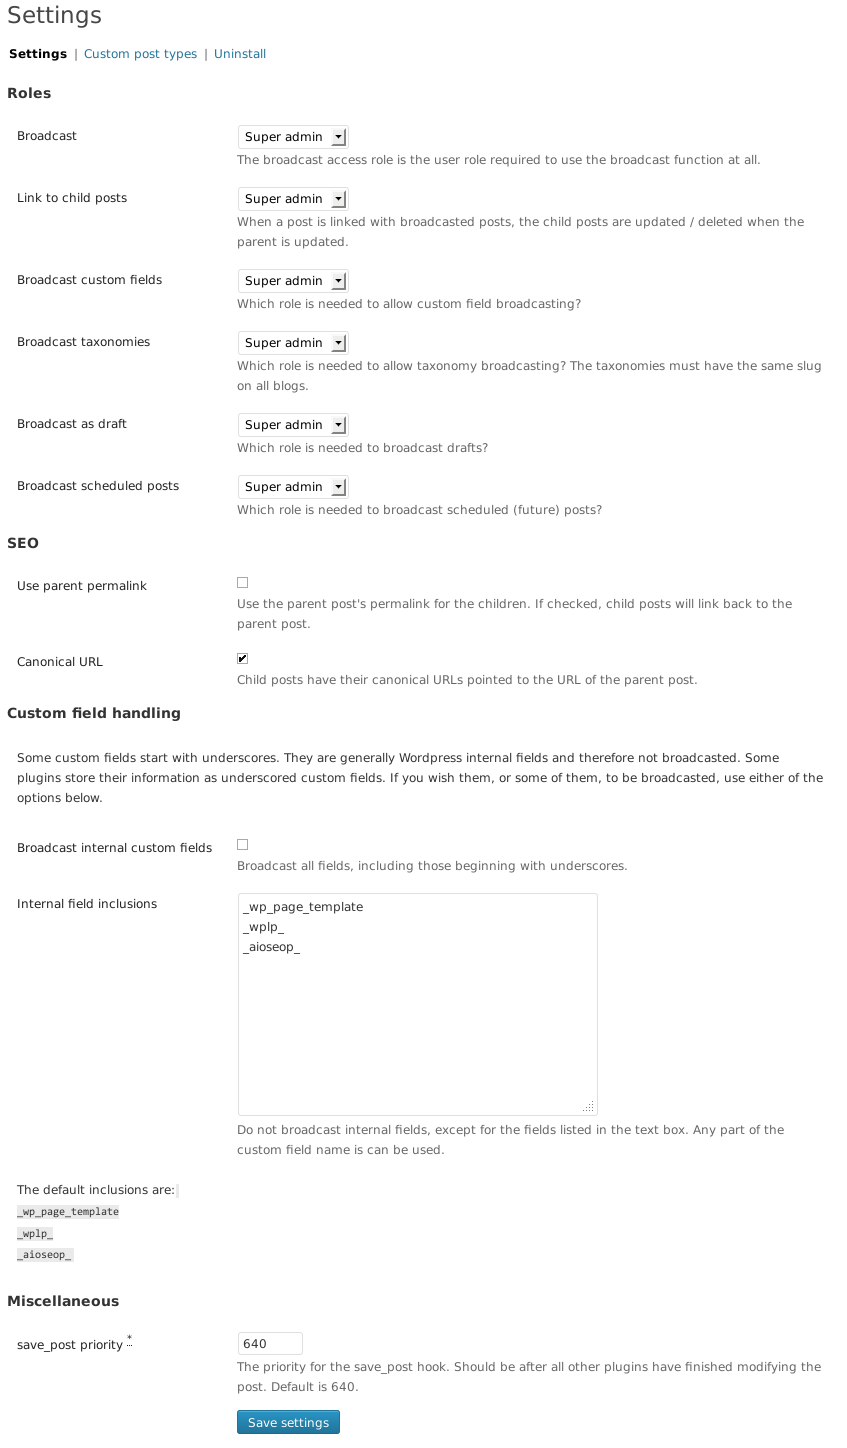
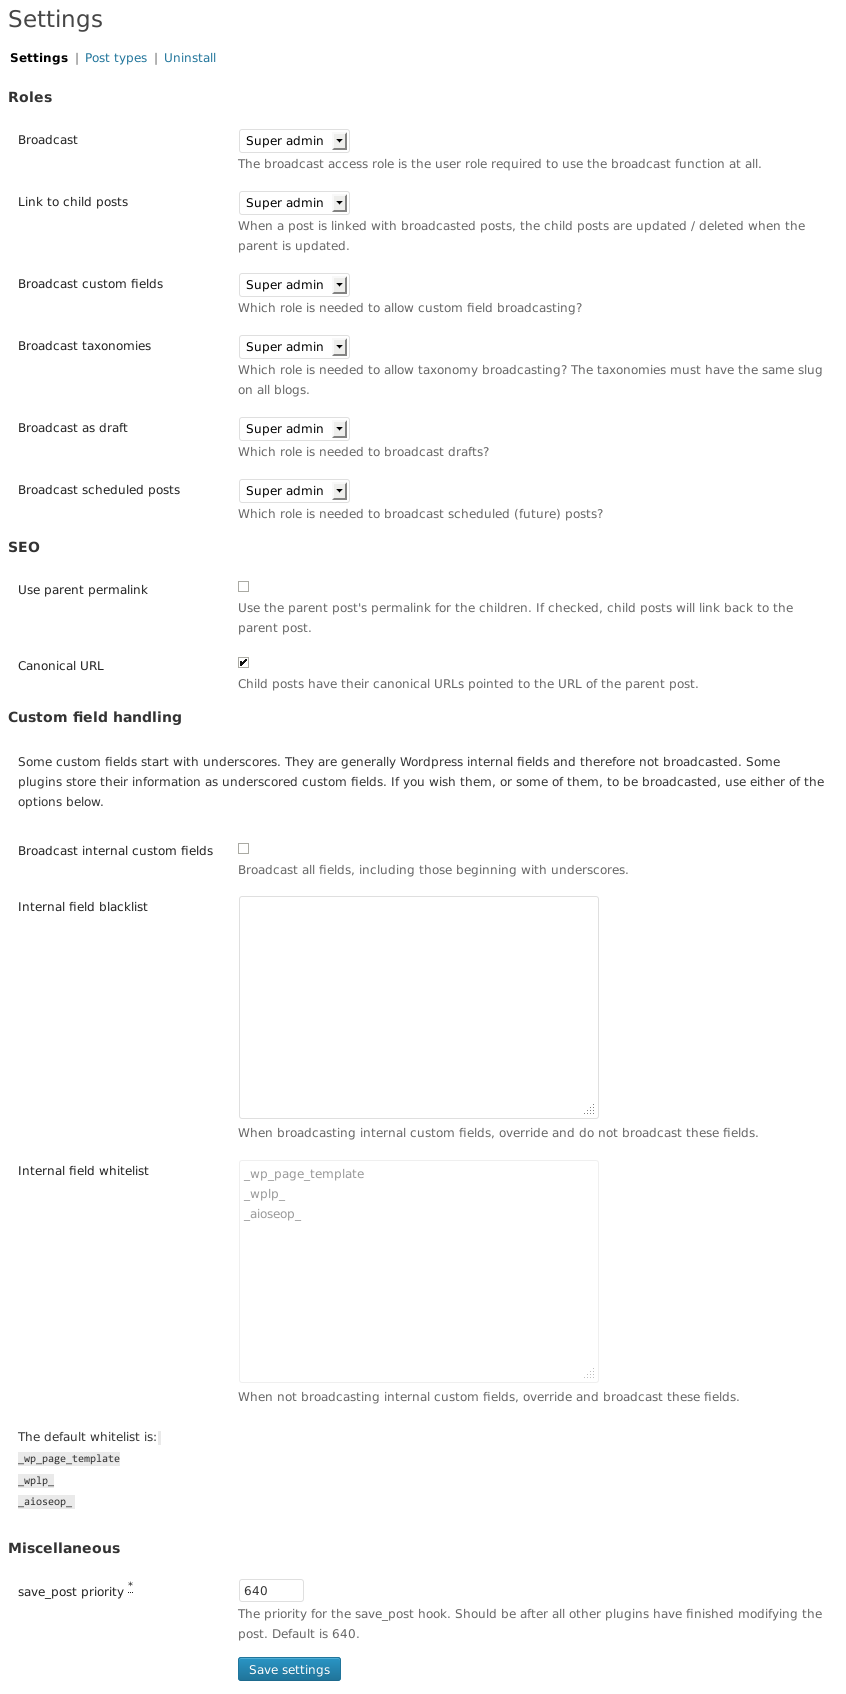
Broadcast 2.2

diff --git a/js/user.min.js b/js/user.min.js
@@ -1,1 +1,1 @@
-jQuery(document).ready(function(a){window.broadcast={$arrow:null,$broadcast:null,$broadcast_blogs_htmls:null,$blogs_html:null,$select_all:null,$invert_selection:null,init:function(){this.$broadcast=a("#threewp_broadcast.postbox");if(this.$broadcast.length<1){return}if(a("input",this.$broadcast).length<1){return}this.$blogs_html=a(".blogs.html_section",this.$broadcast);this.$broadcast_blogs_htmls=a("input.checkbox",this.$blogs_html);this.$selection_change_container=a("<div />").addClass("selection_change_container").appendTo(this.$blogs_html);this.$select_all=a("<span />").addClass("selection_change select_deselect_all").click(function(){var b=!window.broadcast.$broadcast_blogs_htmls.first().prop("checked");window.broadcast.$broadcast_blogs_htmls.each(function(d,e){var c=a(e);if(c.prop("disabled")!=true){c.prop("checked",b)}})}).text(broadcast_strings.select_deselect_all).appendTo(this.$selection_change_container);this.$selection_change_container.append("&emsp;");this.$invert_selection=a("<span />").click(function(){window.broadcast.$broadcast_blogs_htmls.each(function(c,e){var b=a(e);var d=b.prop("checked");b.prop("checked",!d)})}).addClass("selection_change invert_selection").text(broadcast_strings.invert_selection).appendTo(this.$selection_change_container);if(this.$broadcast_blogs_htmls.length>5){this.$arrow=a("<div />").addClass("arrow howto").appendTo(this.$blogs_html).click(function(){var b=a(this);if(window.broadcast.$blogs_html.hasClass("opened")){window.broadcast.hide_blogs()}else{window.broadcast.show_blogs()}});this.hide_blogs()}a(".blog_groups select",this.$broadcast).change(function(){var c=a(this);var d=c.val().split(" ");for(var b=0;b<d.length;b++){a("#plainview_form2_inputs_checkboxes_blogs_"+d[b],window.broadcast.$broadcast).prop("checked",true)}c.val("")})},hide_blogs:function(){window.broadcast.$blogs_html.removeClass("opened").addClass("closed");this.$arrow.html(broadcast_strings.show_all);this.$broadcast_blogs_htmls.each(function(b,d){var e=a(this);var c=e.prop("checked");if(!c){e.parent().hide()}})},show_blogs:function(){window.broadcast.$blogs_html.removeClass("closed").addClass("opened");this.$arrow.html(broadcast_strings.hide_all);this.$broadcast_blogs_htmls.parent().show()}};broadcast.init()});
+jQuery(document).ready(function(a){window.broadcast={$arrow:null,$broadcast:null,$broadcast_blogs_htmls:null,$blogs_html:null,$select_all:null,$invert_selection:null,init:function(){this.$broadcast=a("#threewp_broadcast.postbox");if(this.$broadcast.length<1){return}if(a("input",this.$broadcast).length<1){return}this.$blogs_html=a(".blogs.html_section",this.$broadcast);this.$broadcast_blogs_htmls=a("input.checkbox",this.$blogs_html);this.$selection_change_container=a("<div />").addClass("selection_change_container").appendTo(this.$blogs_html);this.$select_all=a("<span />").addClass("selection_change select_deselect_all").click(function(){var b=!window.broadcast.$broadcast_blogs_htmls.first().prop("checked");window.broadcast.$broadcast_blogs_htmls.each(function(d,e){var c=a(e);if(c.prop("disabled")!=true){c.prop("checked",b)}})}).text(broadcast_strings.select_deselect_all).appendTo(this.$selection_change_container);this.$selection_change_container.append("&emsp;");this.$invert_selection=a("<span />").click(function(){window.broadcast.$broadcast_blogs_htmls.each(function(c,e){var b=a(e);var d=b.prop("checked");b.prop("checked",!d)})}).addClass("selection_change invert_selection").text(broadcast_strings.invert_selection).appendTo(this.$selection_change_container);if(this.$broadcast_blogs_htmls.length>5){this.$arrow=a("<div />").addClass("arrow howto").appendTo(this.$blogs_html).click(function(){var b=a(this);if(window.broadcast.$blogs_html.hasClass("opened")){window.broadcast.hide_blogs()}else{window.broadcast.show_blogs()}});this.hide_blogs()}a(".blog_groups select",this.$broadcast).change(function(){var c=a(this);var d=c.val().split(" ");for(var b=0;b<d.length;b++){a("#plainview_form2_inputs_checkboxes_blogs_"+d[b],window.broadcast.$broadcast).prop("checked",true)}c.val("")})},hide_blogs:function(){window.broadcast.$blogs_html.removeClass("opened").addClass("closed");this.$arrow.html(broadcast_strings.show_all);this.$broadcast_blogs_htmls.each(function(b,d){var e=a(this);var c=e.prop("checked");if(!c){e.parent().hide()}})},init_settings_page:function(){this.$settings_form=a("body.broadcast_page_threewp_broadcast_admin_menu form#broadcast_settings");if(this.$settings_form.length<1){return}this.$settings_form.$broadcast_internal_fields=a("#plainview_form2_inputs_checkbox_broadcast_internal_custom_fields",this.$settings_form);this.$settings_form.$blacklist=a("#plainview_form2_inputs_textarea_custom_field_blacklist",this.$settings_form);this.$settings_form.$whitelist=a("#plainview_form2_inputs_textarea_custom_field_whitelist",this.$settings_form);this.$settings_form.$broadcast_internal_fields.change(function(){var b=a(this).prop("checked");if(b){window.broadcast.$settings_form.$blacklist.prop("readonly",!b).fadeTo(200,1);window.broadcast.$settings_form.$whitelist.prop("readonly",b).fadeTo(200,0.5)}else{window.broadcast.$settings_form.$blacklist.prop("readonly",!b).fadeTo(200,0.5);window.broadcast.$settings_form.$whitelist.prop("readonly",b).fadeTo(200,1)}}).change()},show_blogs:function(){window.broadcast.$blogs_html.removeClass("closed").addClass("opened");this.$arrow.html(broadcast_strings.hide_all);this.$broadcast_blogs_htmls.parent().show()}};broadcast.init();broadcast.init_settings_page()});

diff --git a/js/user.js b/js/user.js
@@ -111,6 +111,36 @@ jQuery(document).ready(function($) {
 			});
 		},
 
+		// Ajaxify the settings page.
+		init_settings_page : function()
+		{
+			this.$settings_form = $( 'body.broadcast_page_threewp_broadcast_admin_menu form#broadcast_settings' );
+			if ( this.$settings_form.length < 1 )
+				return;
+
+			// Ajaxify the whitelist / blacklist
+			this.$settings_form.$broadcast_internal_fields = $( '#plainview_form2_inputs_checkbox_broadcast_internal_custom_fields', this.$settings_form );
+			this.$settings_form.$blacklist = $( '#plainview_form2_inputs_textarea_custom_field_blacklist', this.$settings_form );
+			this.$settings_form.$whitelist = $( '#plainview_form2_inputs_textarea_custom_field_whitelist', this.$settings_form );
+
+			// Fade in the respective settings when the internal fields box is clicked.
+			this.$settings_form.$broadcast_internal_fields.change( function()
+			{
+				var checked = $( this ).prop( 'checked' );
+
+				if ( checked )
+				{
+					window.broadcast.$settings_form.$blacklist.prop( 'readonly', ! checked ).fadeTo( 200, 1.0 );
+					window.broadcast.$settings_form.$whitelist.prop( 'readonly', checked ).fadeTo( 200, 0.5 );
+				}
+				else
+				{
+					window.broadcast.$settings_form.$blacklist.prop( 'readonly', ! checked ).fadeTo( 200, 0.5 );
+					window.broadcast.$settings_form.$whitelist.prop( 'readonly', checked ).fadeTo( 200, 1.0 );
+				}
+			}).change();
+		},
+
 		/**
 			Reshows all the hidden blogs.
 		**/
@@ -123,4 +153,5 @@ jQuery(document).ready(function($) {
 	};
 
 	broadcast.init();
+	broadcast.init_settings_page();
 });

diff --git a/html/premium_pack_info.html b/html/premium_pack_info.html
@@ -5,3 +5,7 @@ For a complete list of features and more information, see <a href="http://plainv
 <h3>Queue</h3>
 
 Need to broadcast to <strong>tens</strong> or <strong>hundreds</strong> of child <strong>blogs</strong>? It's not possible without queue because of PHP timeouts and memory restraints. When enabled, <em>Queue</em> will automatically put all broadcasts, new posts and updates, into a queue that is processed via Javascript in the browser.
+
+<h3>Views</h3>
+
+Adds support for <a href="http://wp-types.com/">WP Types and Views</a> content templates. The child blog needs a content template with the exact same name as the one on the parent for the template to be correctly transferred.

diff --git a/ThreeWP_Broadcast.php b/ThreeWP_Broadcast.php
@@ -6,7 +6,7 @@ Author URI:		http://www.plainview.se
 Description:	Broadcast / multipost a post, with attachments, custom fields, tags and other taxonomies to other blogs in the network.
 Plugin Name:	ThreeWP Broadcast
 Plugin URI:		http://plainview.se/wordpress/threewp-broadcast/
-Version:		2.1
+Version:		2.2
 */
 
 namespace threewp_broadcast;
@@ -53,14 +53,15 @@ class ThreeWP_Broadcast
 	**/
 	public $permalink_cache;
 
-	public $plugin_version = 2.0;
+	public $plugin_version = 2.2;
 
 	protected $sdk_version_required = 20130505;		// add_action / add_filter
 
 	protected $site_options = array(
 		'broadcast_internal_custom_fields' => false,		// Broadcast internal custom fields?
 		'canonical_url' => true,							// Override the canonical URLs with the parent post's.
-		'custom_field_exceptions' => '_wp_page_template _wplp_ _aioseop_',				// Custom fields that should be broadcasted, even though they start with _
+		'custom_field_whitelist' => '_wp_page_template _wplp_ _aioseop_',				// Internal custom fields that should be broadcasted.
+		'custom_field_blacklist' => '',						// Internal custom fields that should not be broadcasted.
 		'database_version' => 1,							// Version of database and settings
 		'save_post_priority' => 640,						// Priority of save_post action. Higher = lets other plugins do their stuff first
 		'override_child_permalinks' => false,				// Make the child's permalinks link back to the parent item?
@@ -172,7 +173,7 @@ class ThreeWP_Broadcast
 		if ( !$load )
 			return;
 
-		wp_enqueue_script( '3wp_broadcast', '/' . $this->paths[ 'path_from_base_directory' ] . '/js/user.min.js' );
+		$this->enqueue_js();
 		wp_enqueue_style( '3wp_broadcast', '/' . $this->paths[ 'path_from_base_directory' ] . '/css/ThreeWP_Broadcast.scss.min.css', false, '20131003', 'screen' );
 	}
 
@@ -242,6 +243,14 @@ class ThreeWP_Broadcast
 			$db_ver = 3;
 		}
 
+		if ( $db_ver < 4 )
+		{
+			$exceptions = $this->get_site_option( 'custom_field_exceptions', '' );
+			$this->delete_site_option( 'custom_field_exceptions' );
+			$whitelist = $this->get_site_option( 'custom_field_whitelist', $exceptions );
+			$db_ver = 4;
+		}
+
 		$this->update_site_option( 'database_version', $db_ver );
 	}
 
@@ -303,7 +312,9 @@ class ThreeWP_Broadcast
 
 	public function admin_menu_settings()
 	{
+		$this->enqueue_js();
 		$form = $this->form2();
+		$form->id( 'broadcast_settings' );
 		$roles = $this->roles_as_options();
 		$roles = array_flip( $roles );
 
@@ -370,17 +381,26 @@ class ThreeWP_Broadcast
 			->description_( 'Broadcast all fields, including those beginning with underscores.' )
 			->label_( 'Broadcast internal custom fields' );
 
-		$exceptions = $this->get_site_option( 'custom_field_exceptions' );
-		$exceptions = str_replace( ' ', "\n", $exceptions );
-		$custom_field_exceptions = $fs->textarea( 'custom_field_exceptions' )
+		$blacklist = $this->get_site_option( 'custom_field_blacklist' );
+		$blacklist = str_replace( ' ', "\n", $blacklist );
+		$custom_field_blacklist = $fs->textarea( 'custom_field_blacklist' )
 			->cols( 40, 10 )
-			->description_( 'Do not broadcast internal fields, except for the fields listed in the text box. Any part of the custom field name is can be used.' )
-			->label_( 'Internal field inclusions' )
+			->description_( 'When broadcasting internal custom fields, override and do not broadcast these fields.' )
+			->label_( 'Internal field blacklist' )
 			->trim()
-			->value( $exceptions );
+			->value( $blacklist );
 
-		$fs->markup( 'inclusion_defaults' )
-			->p_( 'The default inclusions are: %s', "<code>\n_wp_page_template\n_wplp_\n_aioseop_</code>" );
+		$whitelist = $this->get_site_option( 'custom_field_whitelist' );
+		$whitelist = str_replace( ' ', "\n", $whitelist );
+		$custom_field_whitelist = $fs->textarea( 'custom_field_whitelist' )
+			->cols( 40, 10 )
+			->description_( 'When not broadcasting internal custom fields, override and broadcast these fields.' )
+			->label_( 'Internal field whitelist' )
+			->trim()
+			->value( $whitelist );
+
+		$fs->markup( 'whitelist_defaults' )
+			->p_( 'The default whitelist is: %s', "<code>\n_wp_page_template\n_wplp_\n_aioseop_</code>" );
 
 		$fs = $form->fieldset( 'misc' )
 			->label_( 'Miscellaneous' );
@@ -413,9 +433,13 @@ class ThreeWP_Broadcast
 
 			$this->update_site_option( 'broadcast_internal_custom_fields', $broadcast_internal_custom_fields->is_checked() );
 
-			$exceptions = $custom_field_exceptions->get_post_value();
-			$exceptions = $this->lines_to_string( $exceptions );
-			$this->update_site_option( 'custom_field_exceptions', $exceptions );
+			$blacklist = $custom_field_blacklist->get_post_value();
+			$blacklist = $this->lines_to_string( $blacklist );
+			$this->update_site_option( 'custom_field_blacklist', $blacklist );
+
+			$whitelist = $custom_field_whitelist->get_post_value();
+			$whitelist = $this->lines_to_string( $whitelist );
+			$this->update_site_option( 'custom_field_whitelist', $whitelist );
 
 			$this->update_site_option( 'save_post_priority', $save_post_priority->get_post_value() );
 			$this->message( 'Options saved!' );
@@ -1908,6 +1932,18 @@ class ThreeWP_Broadcast
 	}
 
 	/**
+		@brief		Enqueue the JS file.
+		@since		20131007
+	**/
+	public function enqueue_js()
+	{
+		if ( isset( $this->_js_enqueued ) )
+			return;
+		wp_enqueue_script( '3wp_broadcast', '/' . $this->paths[ 'path_from_base_directory' ] . '/js/user.min.js' );
+		$this->_js_enqueued = true;
+	}
+
+	/**
 		@brief		Lists ALL of the blogs. Including the main blog.
 		@since		20131004
 	**/
@@ -2083,16 +2119,31 @@ class ThreeWP_Broadcast
 		// Has the user requested that all internal fields be broadcasted?
 		$broadcast_internal_custom_fields = $this->get_site_option( 'broadcast_internal_custom_fields' );
 		if ( $broadcast_internal_custom_fields )
+		{
+			// Prep the cache.
+			if ( ! isset( $this->custom_field_blacklist_cache ) )
+				$this->custom_field_blacklist_cache = explode( ' ', $this->get_site_option( 'custom_field_blacklist' ) );
+
+			foreach( $this->custom_field_blacklist_cache as $exception)
+				if ( strpos( $custom_field, $exception) !== false )
+					return false;
+
+			// Not found in the blacklist. Broadcast the field!
 			return true;
+		}
+		else
+		{
+			// Prep the cache.
+			if ( !isset( $this->custom_field_whitelist_cache ) )
+				$this->custom_field_whitelist_cache = explode( ' ', $this->get_site_option( 'custom_field_whitelist' ) );
 
-		if ( !isset( $this->custom_field_exceptions_cache) )
-			$this->custom_field_exceptions_cache = explode( ' ', $this->get_site_option( 'custom_field_exceptions' ) );
+			foreach( $this->custom_field_whitelist_cache as $exception)
+				if ( strpos( $custom_field, $exception) !== false )
+					return true;
 
-		foreach( $this->custom_field_exceptions_cache as $exception)
-			if ( strpos( $custom_field, $exception) !== false )
-				return true;
-
-		return false;
+			// Not found in the whitelist. Do not broadcast.
+			return false;
+		}
 	}
 
 	private function keep_valid_custom_fields( $custom_fields )

diff --git a/ThreeWP_Broadcast_Blog_Groups.php b/ThreeWP_Broadcast_Blog_Groups.php
@@ -6,7 +6,7 @@ Author URI:		http://www.plainview.se
 Description:	Allows users to create blog groups to ease blog selection when broadcasting.
 Plugin Name:	ThreeWP Broadcast Blog Groups
 Plugin URI:		http://plainview.se/wordpress/threewp-broadcast/
-Version:		2.1
+Version:		2.2
 */
 
 namespace threewp_broadcast\blog_groups;
@@ -15,6 +15,8 @@ if ( ! class_exists( '\\plainview\\wordpress\\base' ) )	require_once( __DIR__ . 
 
 /**
 	@brief		Adds blog group support to Broadcast
+	@details
+
 	@par		Changelog
 
 	- 20130812	Intial version v1.21.
@@ -22,7 +24,7 @@ if ( ! class_exists( '\\plainview\\wordpress\\base' ) )	require_once( __DIR__ . 
 class ThreeWP_Broadcast_Blog_Groups
 	extends \plainview\wordpress\base
 {
-	public $plugin_version = 2.0;
+	public $plugin_version = 2.2;
 
 	protected $sdk_version_required = 20131006;		// tabs->get_is()
 

diff --git a/ThreeWP_Broadcast_WPML.php b/ThreeWP_Broadcast_WPML.php
@@ -6,7 +6,7 @@ Author URI:		http://www.plainview.se
 Description:	Add WPML support to ThreeWP Broadcast.
 Plugin Name:	ThreeWP Broadcast WPML support
 Plugin URI:		http://plainview.se/wordpress/threewp-broadcast/
-Version:		2.1
+Version:		2.2
 */
 
 namespace threewp_broadcast;
@@ -15,19 +15,16 @@ if ( ! class_exists( '\\plainview\\wordpress\\base' ) )	require_once( __DIR__ . 
 
 /**
 	@brief		Adds WPML support to ThreeWP Broadcast.
-
 	@details
 
 	@par		Changelog
-
-	Version syncs with Broadcast are not documented.
 
 	- 20130812	Intial version v1.21.
 **/
 class ThreeWP_Broadcast_WPML
 	extends \plainview\wordpress\base
 {
-	public $plugin_version = 20130929;
+	public $plugin_version = 2.2;
 
 	protected $sdk_version_required = 20130505;		// add_action / add_filter
 
